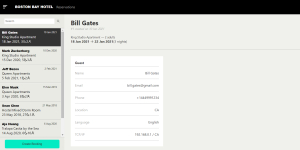
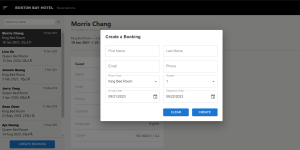
update hotel booking system

diff --git a/src/components/Projects.js b/src/components/Projects.js
@@ -61,7 +61,7 @@ const Projects = () => {
             link_url: "https://play.google.com/store/apps/details?id=com.SeanChen.HappyBirdFriends"
         },
         {
-            title: "Lodgify Mockup",
+            title: "Hotel Booking System",
             image: lodgifyMockup,
             skills: [
                 "React",
@@ -79,6 +79,7 @@ const Projects = () => {
             skills: [
                 "React",
                 "styled-components",
+                "JavaScript",
                 "HTML",
                 "CSS",
             ],
